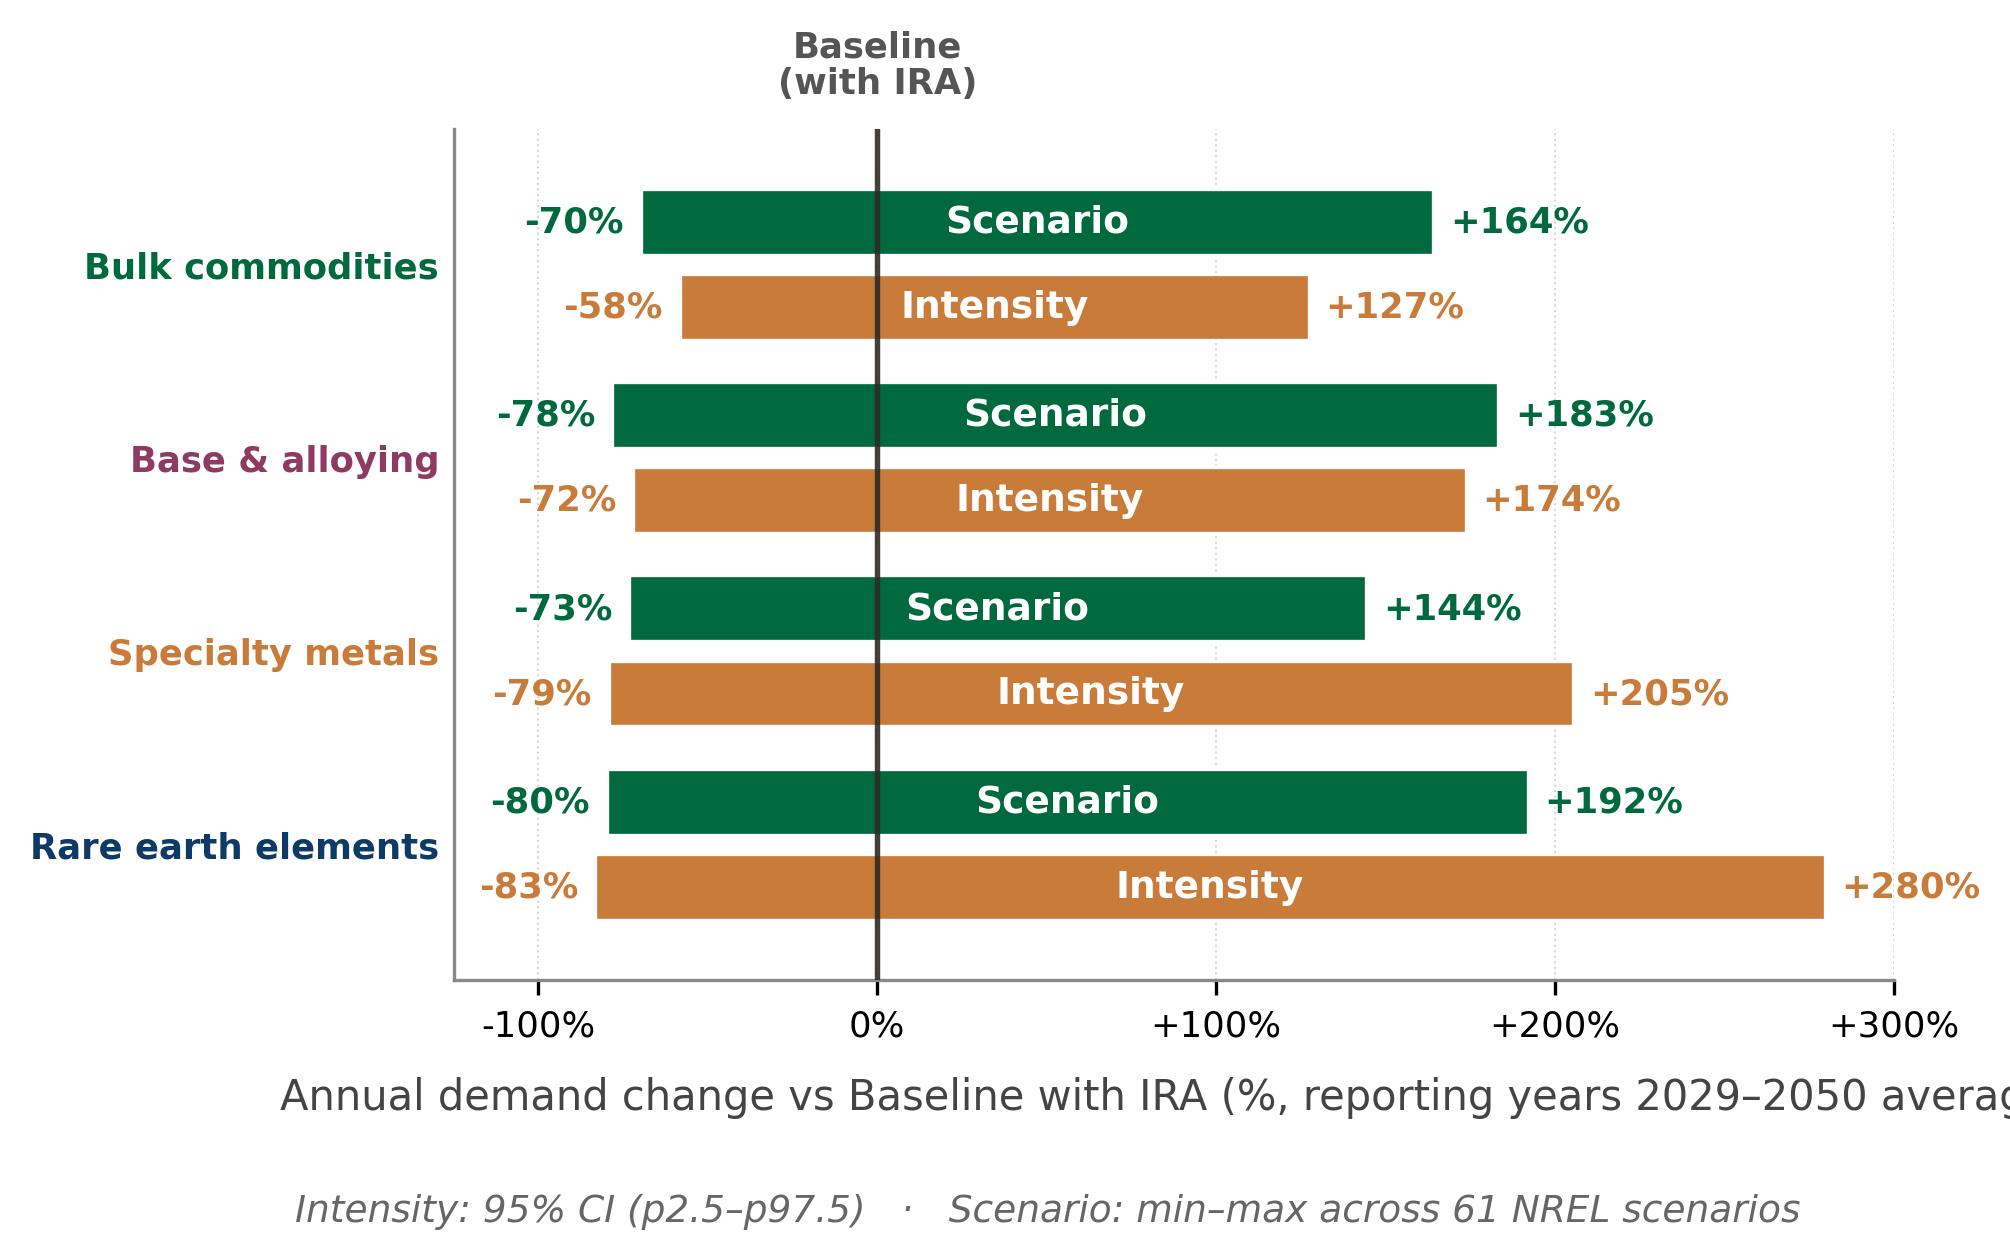
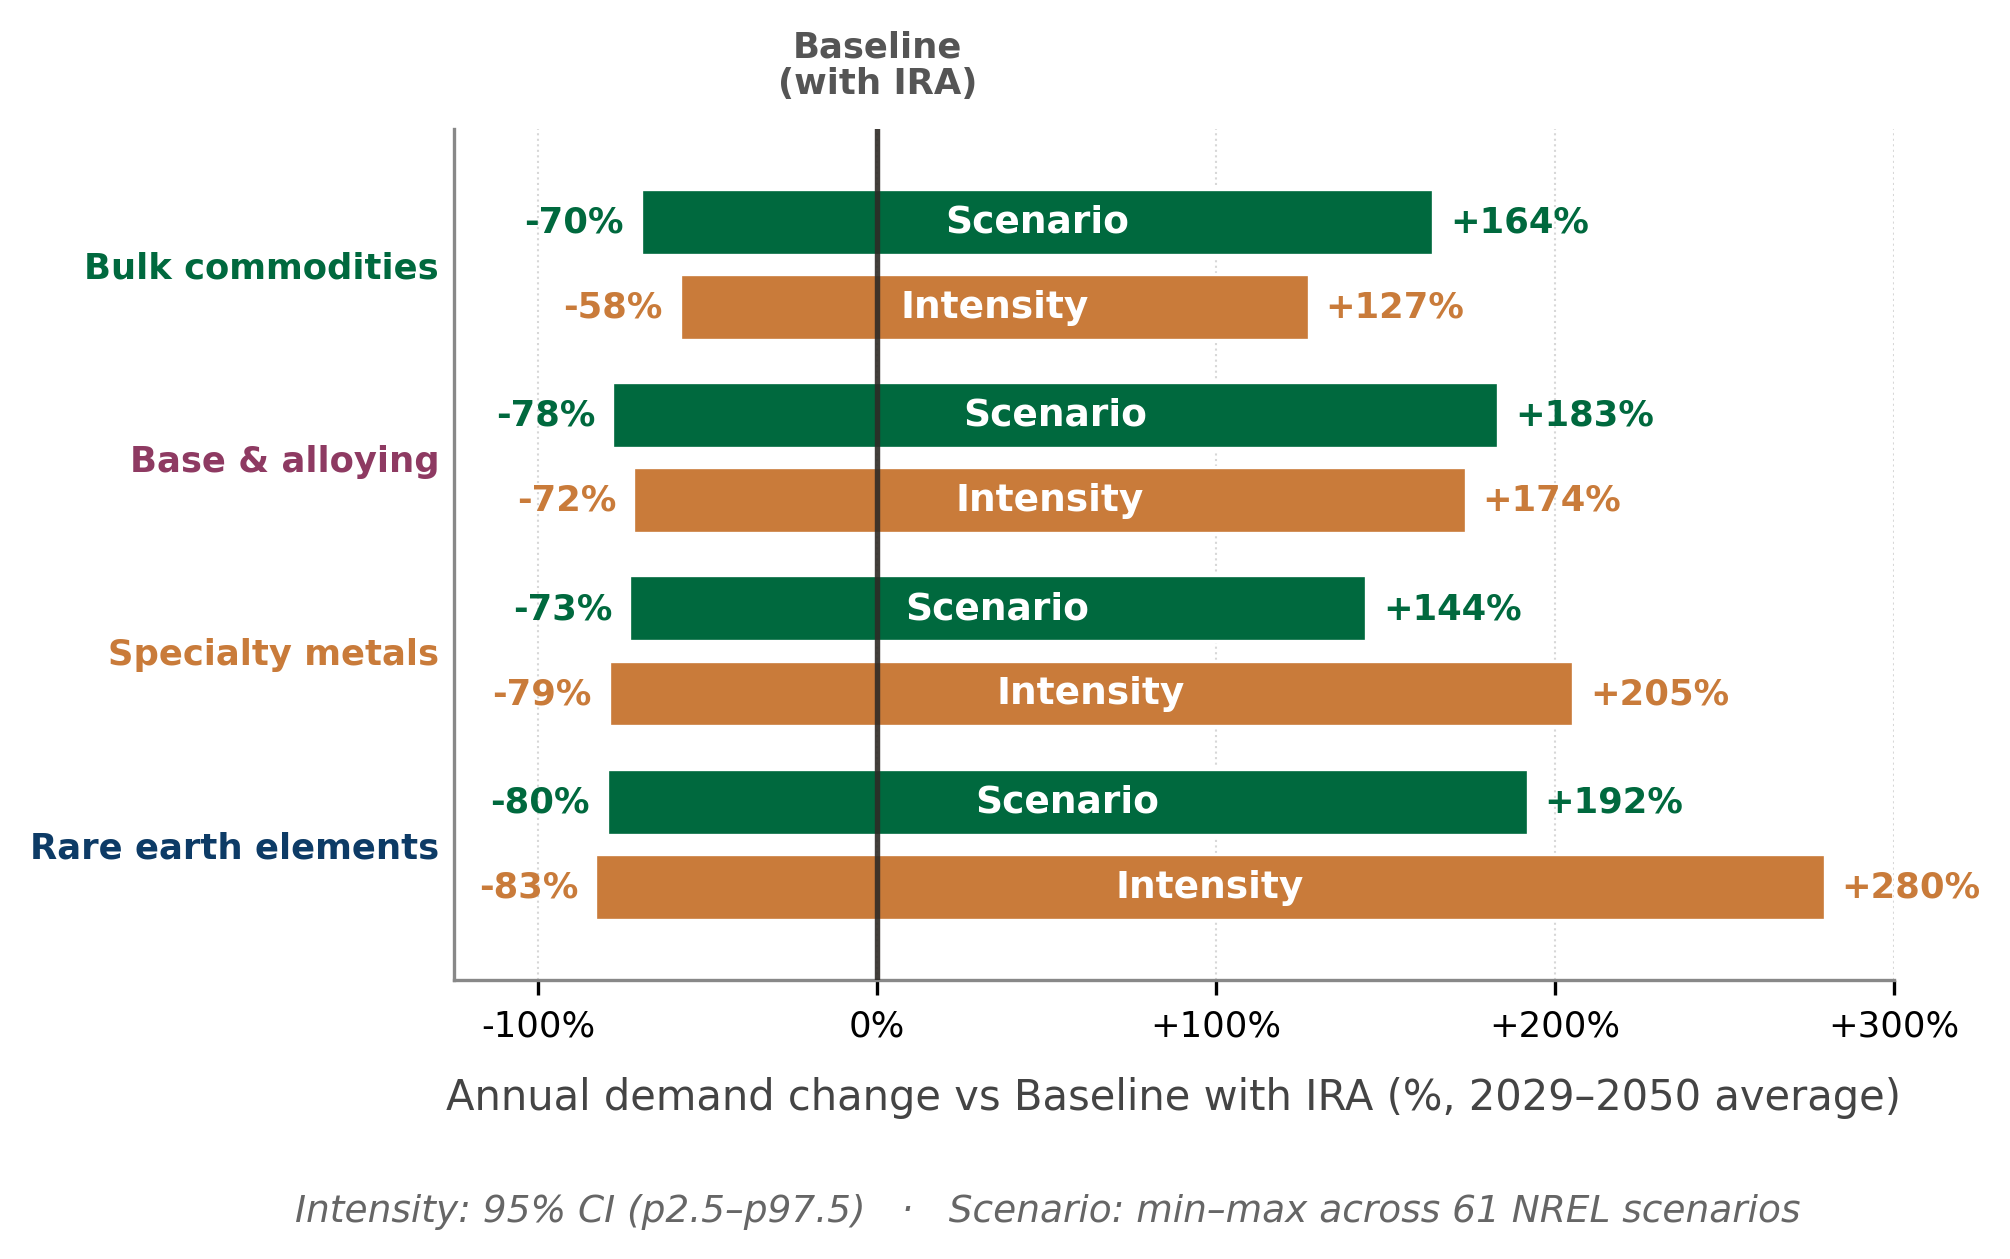
Fix clipped x-axis label on Fig S3 docx variant

Changed region(s): [[0.1542, 0.8364, 1.0, 0.8983]]

diff --git a/visualizations/figS3_sensitivity_tornado.py b/visualizations/figS3_sensitivity_tornado.py
@@ -367,8 +367,11 @@ def plot(input_csv: Path, output_path: Path,
     # Label the actual year set averaged over: the annual grid covers every
     # year 2027-2050; the 3-yr-bucket CSV pools the 8 NREL reporting years
     # 2029-2050 (2026 excluded — zero additions by construction).
-    year_span = ("2027–2050" if annual_grid
-                 else "reporting years 2029–2050")
+    # Keep the axis label short enough for the fixed-width --docx canvas
+    # (the longer "reporting years ..." phrasing clipped at the right edge);
+    # the SI caption spells out the exact year set (annual grid 2027-2050 vs
+    # the eight NREL reporting years 2029-2050).
+    year_span = "2027–2050" if annual_grid else "2029–2050"
     xlabel_suffix = (
         f"(%, {year_span} cumulative)"
         if timebase == "cumulative"
